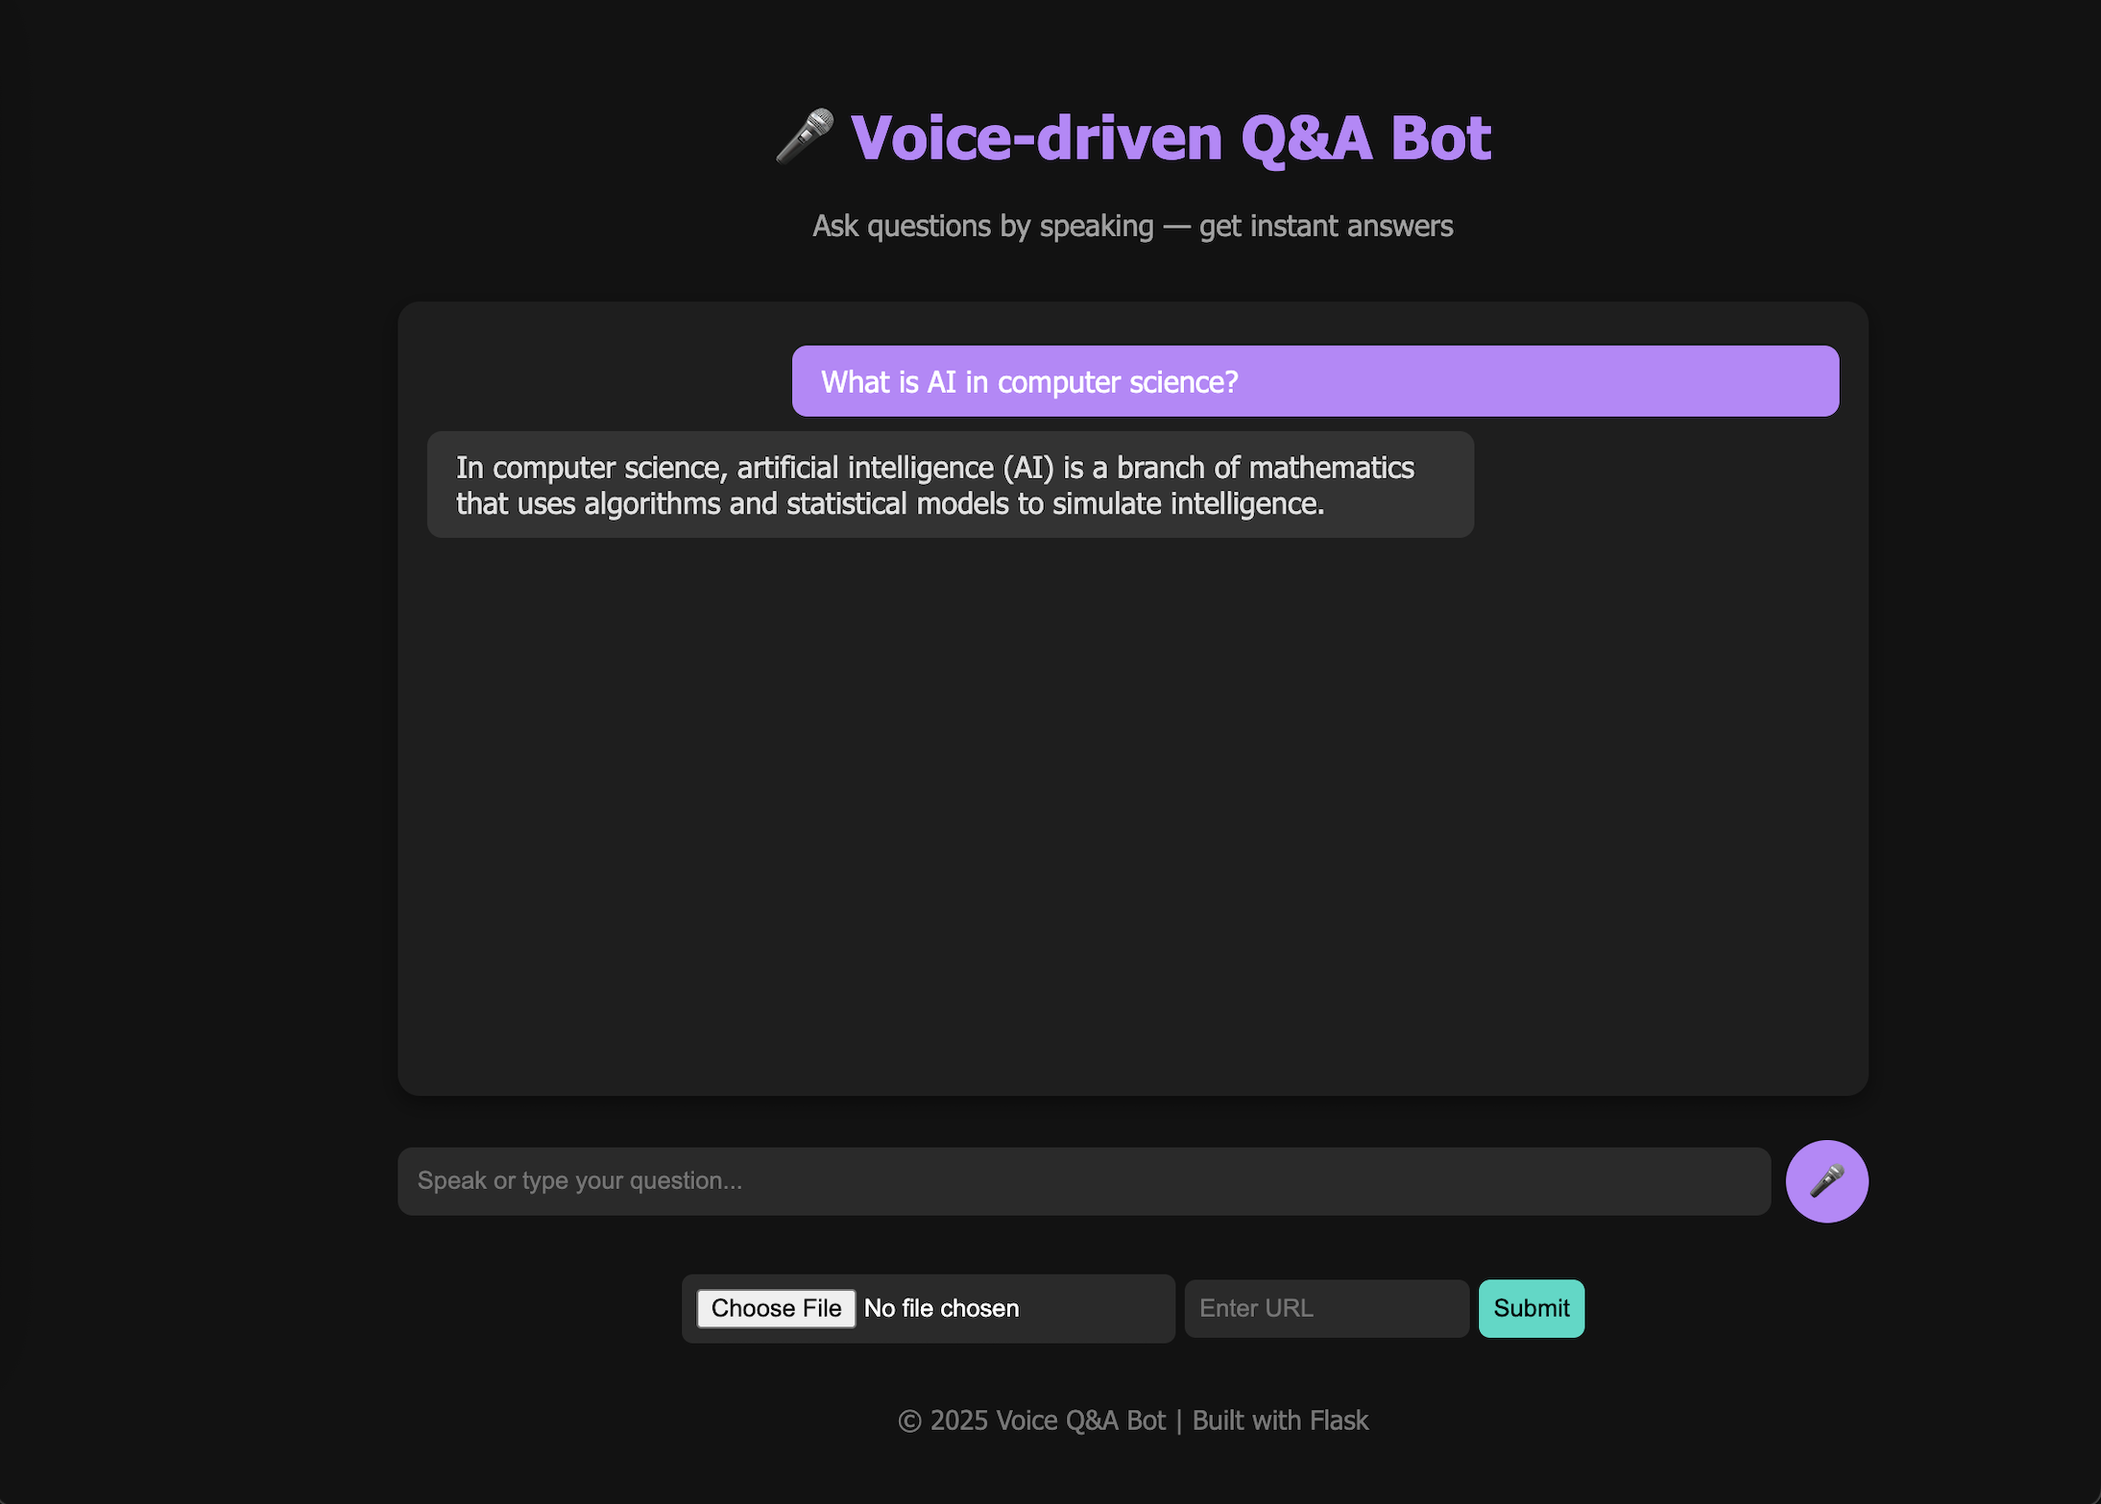
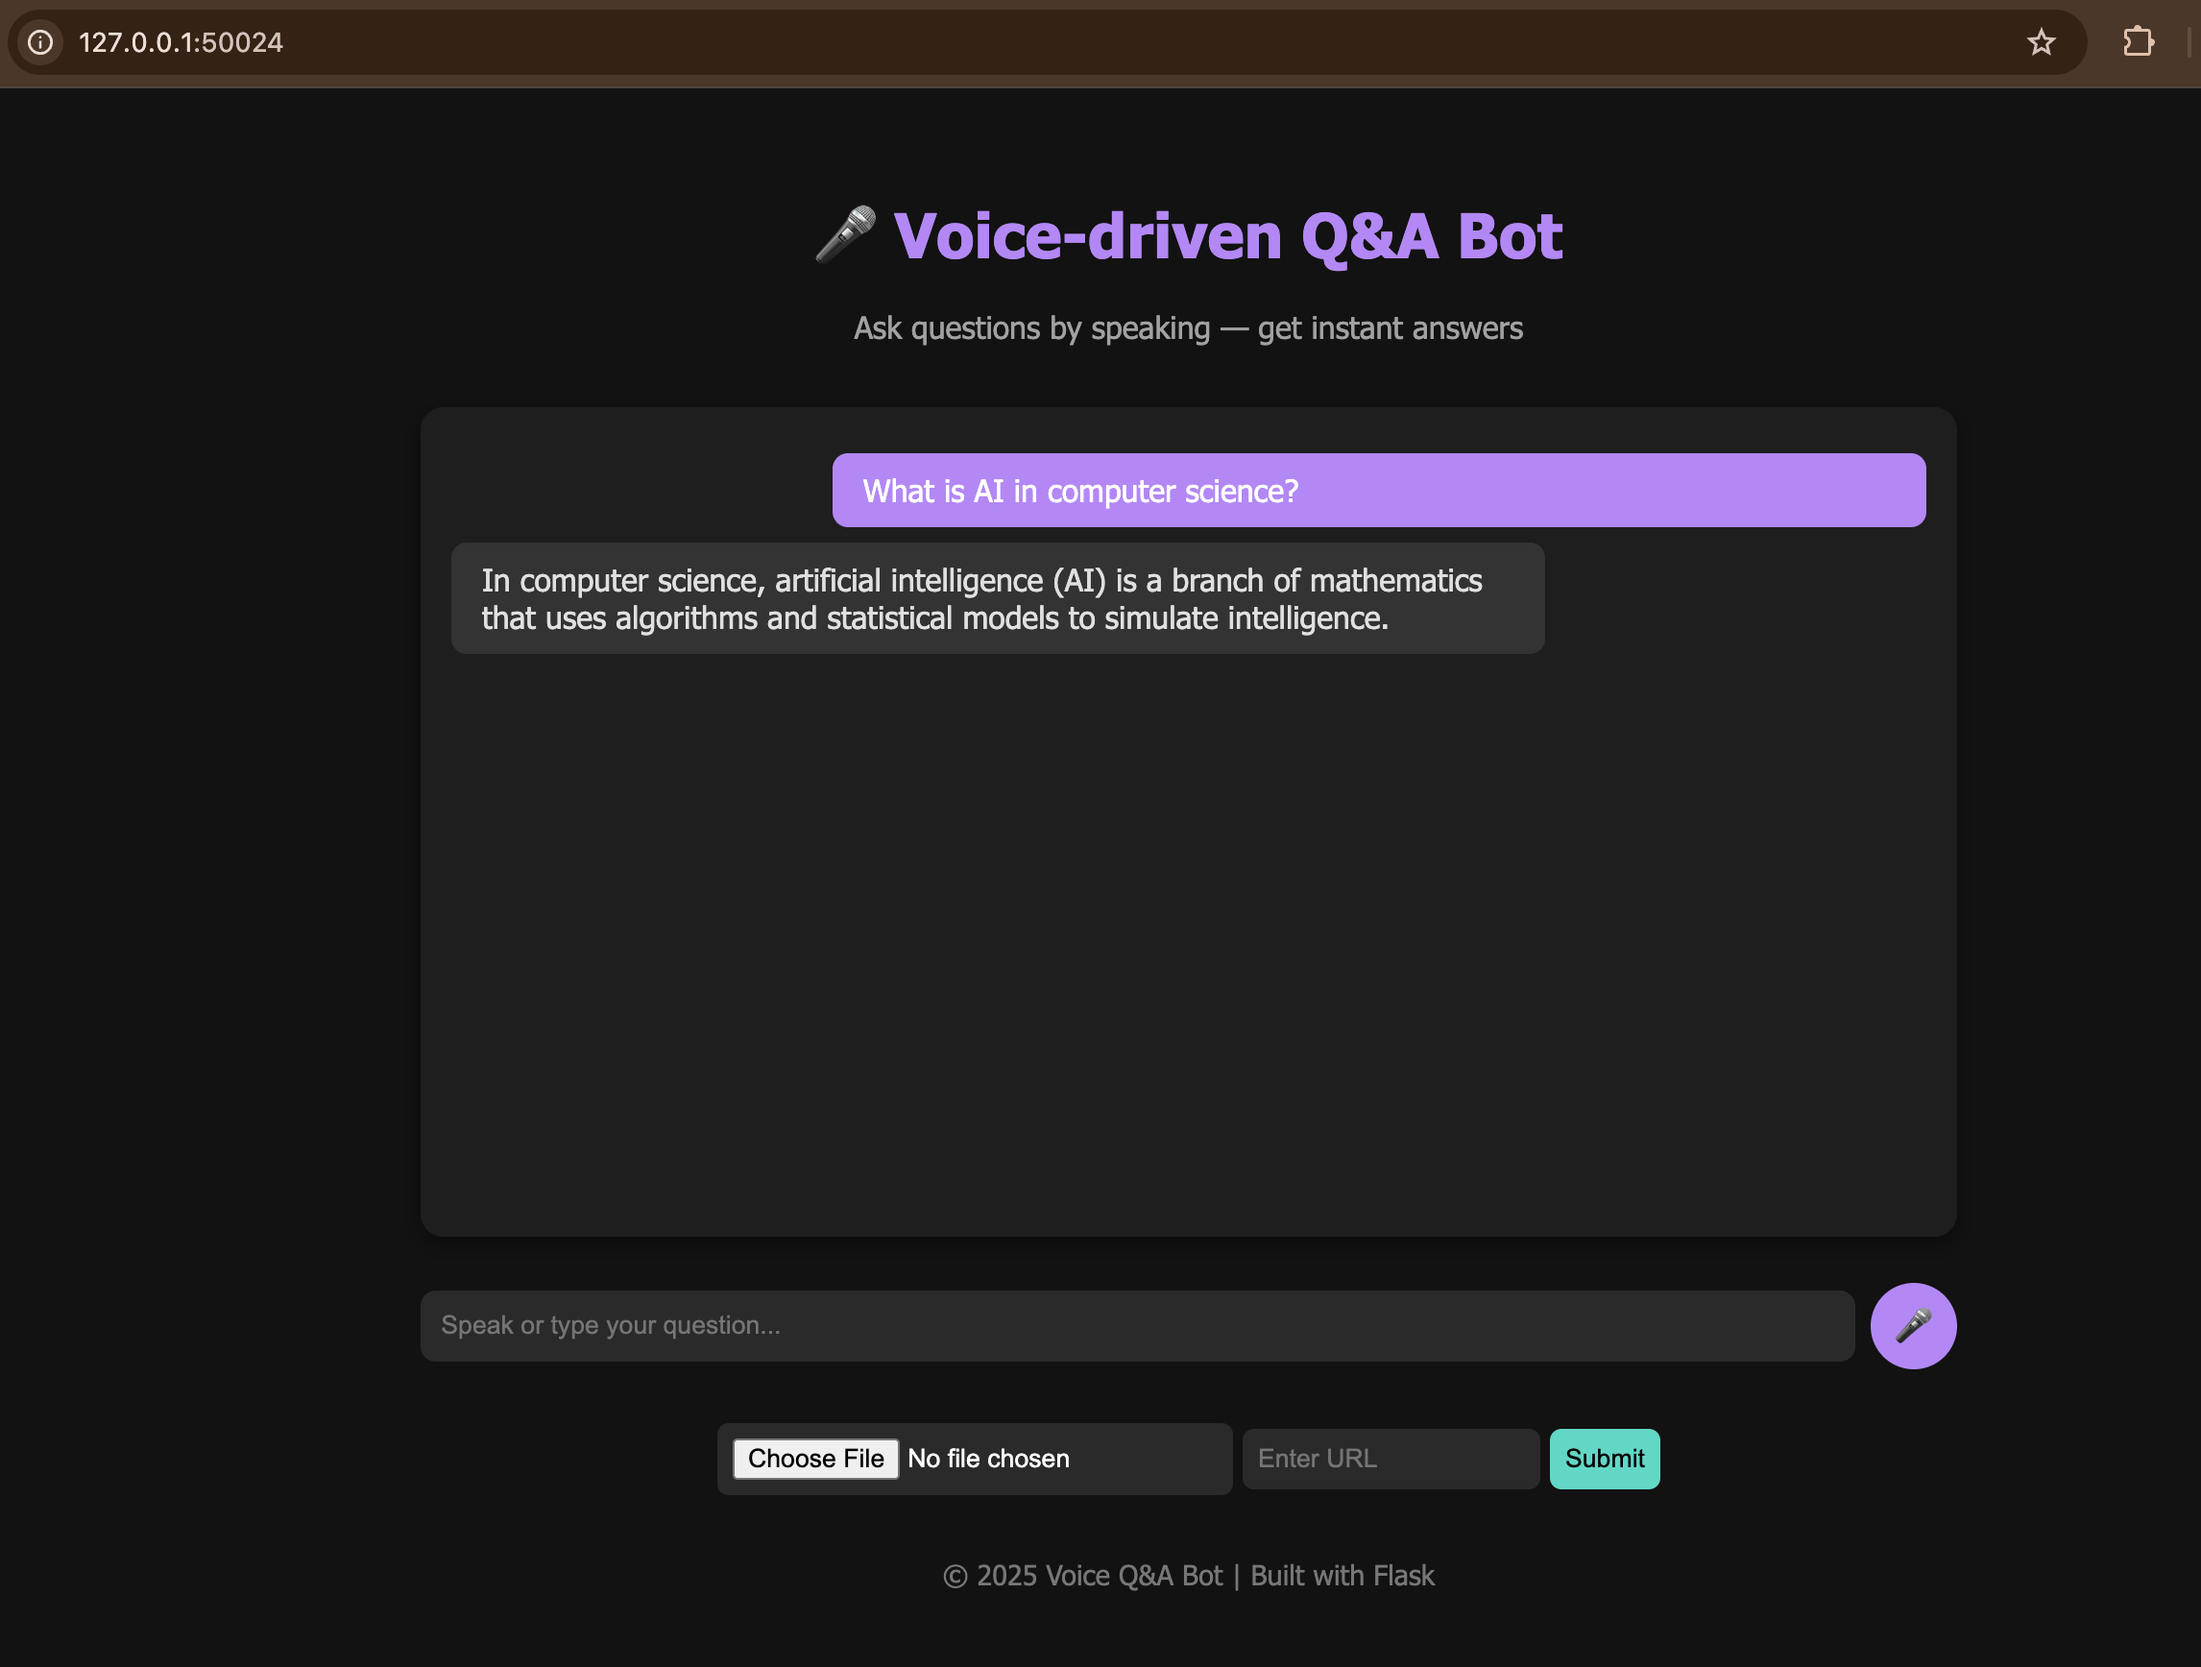
Update Project 3 to UStep with final description

diff --git a/src/assets/mywork_data.js b/src/assets/mywork_data.js
@@ -1,6 +1,6 @@
 import project1_img from '../assets/project1.png'
 import project2_img from '../assets/project2.png'
-import project3_img from '../assets/project_3.svg'
+import project3_img from '../assets/project3.png'
 import project6_img from '../assets/project6.png'
 
 const mywork_data = [
@@ -22,12 +22,11 @@ const mywork_data = [
     },
     {
         w_no: 3,
-        w_name: "AI Cortex",
-        w_desc: "Machine learning integration platform for automated decision making.",
+        w_name: "UStep",
+        w_desc: "UStep is a student-focused academic application designed to simplify course management, grade tracking, and academic planning. It enables students to monitor their current and future grades, view courses offered, and explore peer-submitted course reviews to make informed decisions about their studies.",
         w_img: project3_img,
-        w_github: "https://github.com",
-        w_link: "https://google.com",
-        isUnderImplementation: true
+        w_github: "https://github.com/subhashyadavon/ustep",
+        w_link: "https://google.com"
     },
     {
         w_no: 4,
